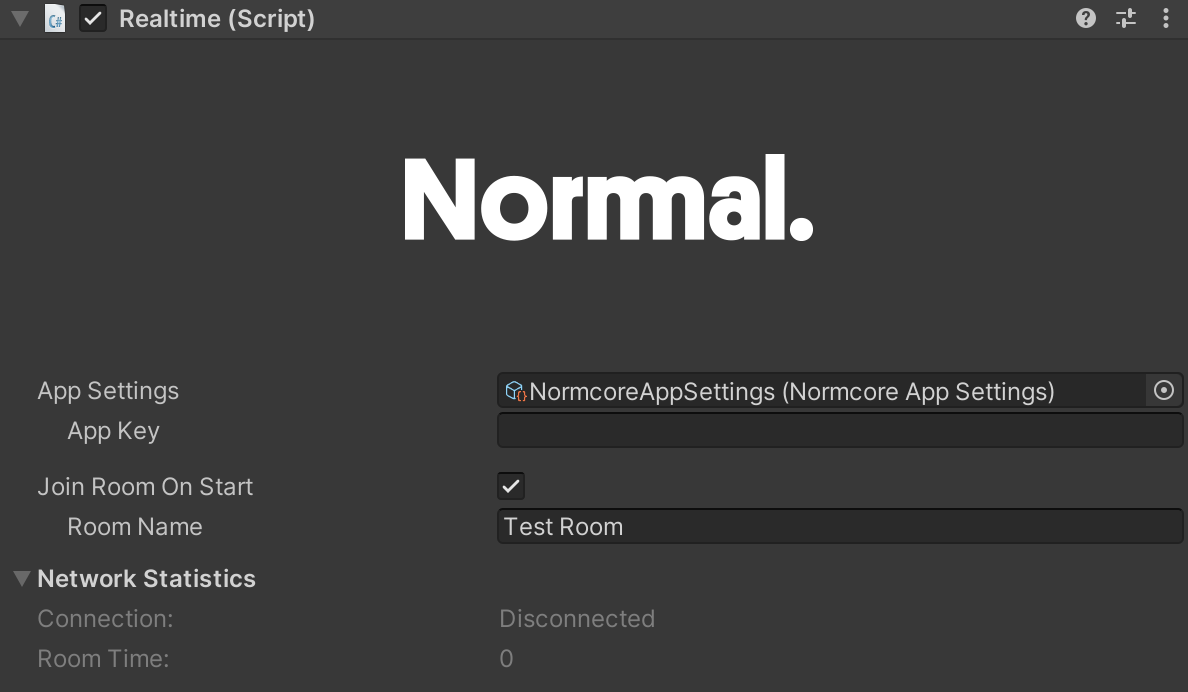
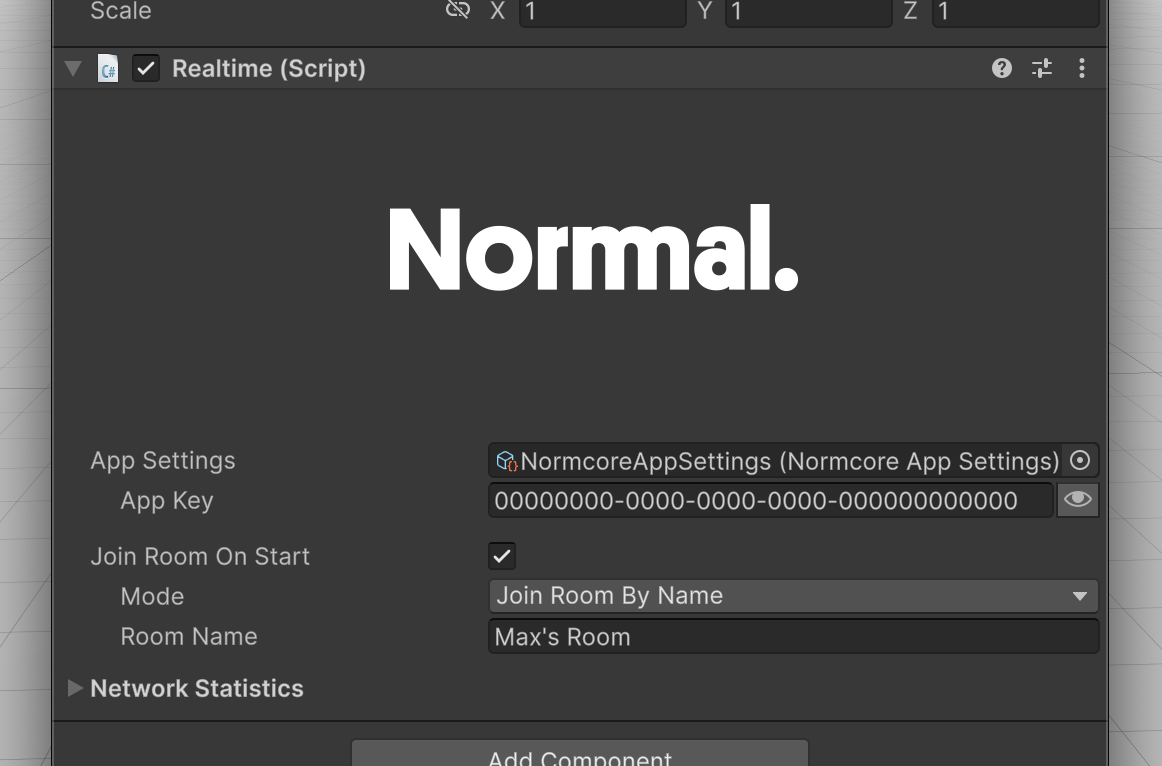
Update Realtime docs page to show modern UI.

diff --git a/docs/realtime/realtime.md b/docs/realtime/realtime.md
@@ -20,15 +20,28 @@ This points to a [NormcoreAppSettings](../reference/classes/Normal.NormcoreAppSe
 ### App Key
 This is a unique key used to track your app's usage. You can create one over on your [account dashboard](https://dashboard.normcore.io/apps). This field will update the asset for all instances that use this NormcoreAppSettings asset.
 
-### Join Room On Start + Room Name
-If you would like Realtime to automatically connect to a room on Start(), you can check this box and enter the room name here.
+### Join Room On Start
+If you would like Realtime to automatically connect to a room on Start(), check this box and configure the options below.
+
+#### Mode
+This determines how a room is selected when connecting:
+
+- **Join Room By Name:** Connect to a specific room by name.
+- **Next Available Room (Quickmatch):** Use [Quickmatch](../guides/quickmatch.md) to find a room with remaining capacity, or create a new room if all existing rooms are full.
+- **Offline Room:** Connect to an offline room.
 
 :::info
 Room names are namespaced to your App Key. Any room name used with a different App Key is considered a different room server by Normcore.
 :::
 
 ### Network Statistics
-This section displays information about the current running connection such as the current time on the room server and the connection state.
+This section displays information about the current running connection:
+
+- **Connection:** The current connection state (e.g., Connecting, Connected, Disconnected, Error).
+- **Room Name:** The name of the room you are connected to.
+- **Room Time:** The current time on the room server.
+- **Ping:** The round-trip latency to the server in milliseconds.
+- **Client ID:** The client ID assigned for this connection by the room server.
 
 ## Programming interface
 Most of the time that you spend working with Realtime will be via its programming interface. More information is available on using this API in the [Realtime API Overview](./readme.md), and individual methods are documented on the [Realtime](../reference/classes/Normal.Realtime.Realtime.md) reference page.
